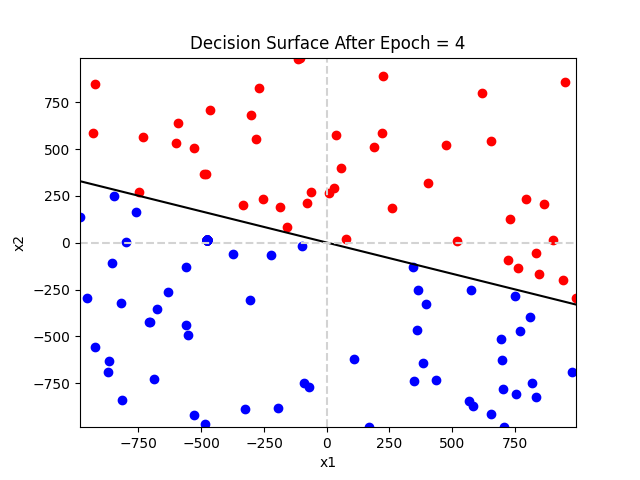
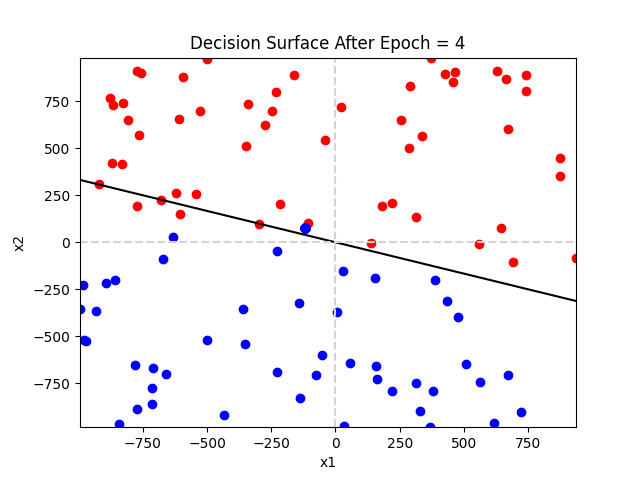
fix incremental update

diff --git a/src/main.py b/src/main.py
@@ -23,7 +23,7 @@ class Perceptron:
         self.test = test
         self.weights = weights
     
-    def batch_update_weights(self, lrate):
+    def incremental_update_weights(self, lrate):
         epoch_error = 0
         for i in range(self.train.shape[0]):
             row_x = self.train[[i],:-1]
@@ -32,8 +32,8 @@ class Perceptron:
             sign = np.dot(row_x, self.weights)
             sign = np.where(sign > 0, 1, -1)
             diff = np.subtract(row_y, sign)
-            delta_weights = np.multiply((lrate * diff), row_x)
-            delta_weights = np.transpose(delta_weights)
+            diff = diff * lrate
+            delta_weights = np.dot(np.transpose(row_x), diff)
             self.weights = self.weights + delta_weights
             if (row_y * sign) < 0:
                 epoch_error += 1
